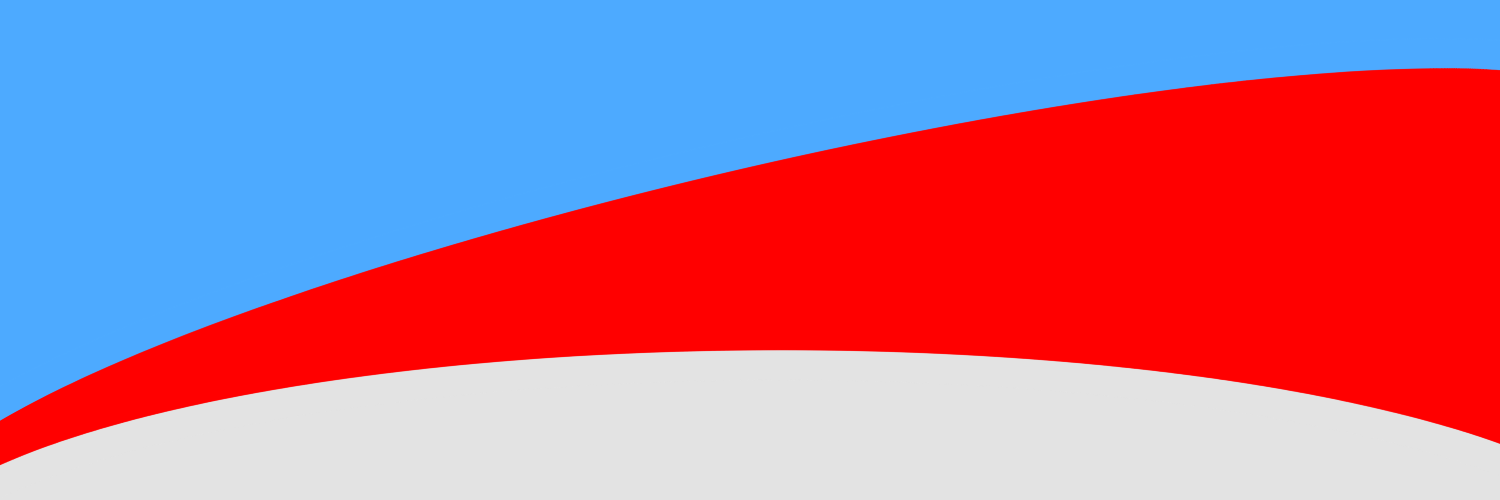
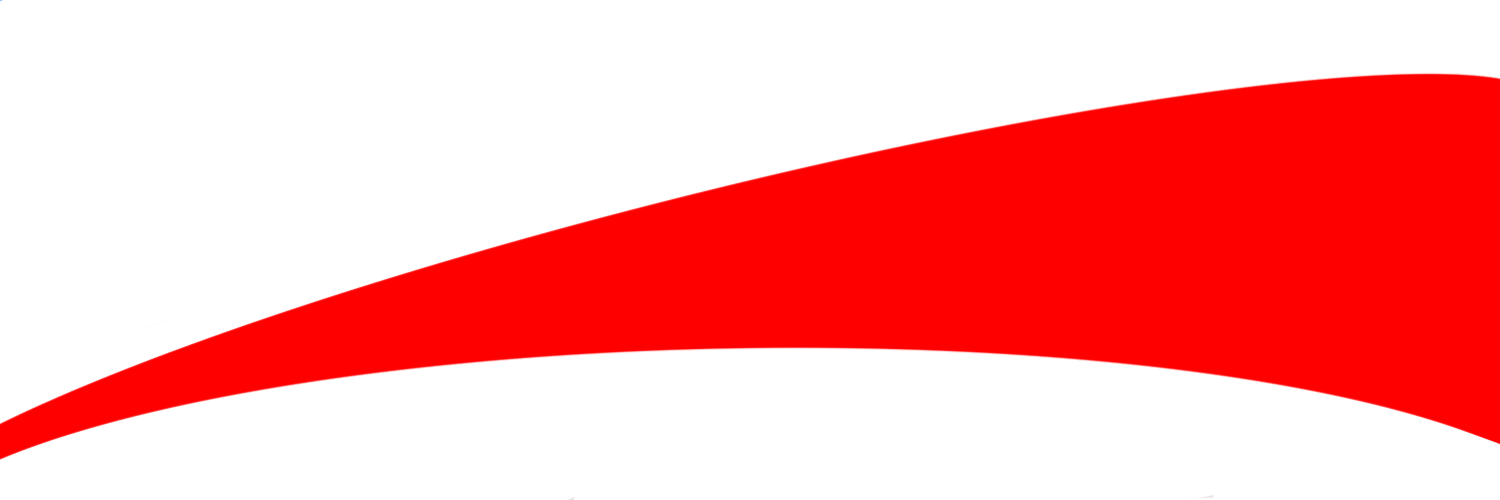
topページの変更

diff --git a/app/homepage.css b/app/homepage.css
@@ -23,7 +23,7 @@
     position: absolute;
     left: -25px;
     top: -20px;
-    height: 28vw;
+    height: clamp(10px, 25vw, 160px);
     min-height: 110px;
     width: auto;
     z-index: 5;
@@ -58,7 +58,7 @@
 
 .newsbox-animation {
     position: absolute;
-    top: 3.75rem;
+    top: 10vw;
     -webkit-transform: rotate(2deg);
     transform: rotate(2deg);
 }
@@ -182,9 +182,9 @@
     position: absolute;
     top: 0;
     z-index: 1;
-    -webkit-transform: rotate(-3deg);
-    transform: rotate(-3deg);
-    margin-top: 1rem;
+    -webkit-transform: rotate(2deg);
+    transform: rotate(2deg);
+    margin-top: clamp(20px, 10vw, 150px);
 }
 
 @media (max-width: 767px) {
@@ -192,12 +192,12 @@
         z-index: 5;
         -webkit-transform: rotate(-2deg);
         transform: rotate(-2deg);
-        margin-top: 0rem;
+        margin-top: 1rem;
     }
 
     .mapbox-up {
-        background: rgb(71, 170, 255);
-        background: linear-gradient(180deg, rgba(77, 170, 255, 1) 43%, rgba(227, 227, 227, 1) 57%);
+        background: rgb(255, 0, 0);
+        background: linear-gradient(180deg, rgba(255, 0, 0, 1) 43%, rgb(255, 255, 255) 57%);
     }
 }
 
@@ -205,7 +205,7 @@
     position: absolute;
     left: -25px;
     top: 0px;
-    height: 28vw;
+    height: clamp(10px, 25vw, 160px);
     min-height: 110px;
     width: auto;
     z-index: 7;
@@ -218,7 +218,7 @@
     flex-direction: column;
     align-items: center;
     height: auto;
-    background-color: #e3e3e3;
+    background-color: #ffffff;
 }
 
 .adbox {
@@ -258,8 +258,8 @@
     top: 0;
     z-index: 1;
     -webkit-transform: rotate(-4deg);
-    transform: rotate(-4rem);
-    margin-top: 10vw;
+    transform: rotate(-4deg);
+    top: clamp(40px, 5vw, 90px);
 }
 
 @media (max-width: 767px) {
@@ -267,20 +267,18 @@
         z-index: 5;
         -webkit-transform: rotate(-2deg);
         transform: rotate(-2deg);
-        margin-top: 0rem;
     }
 
     .footbox-up {
-        background: rgb(227, 227, 227);
-        background: linear-gradient(180deg, rgba(227, 227, 227, 1) 43%, rgba(255, 255, 255, 1) 57%);
+        background: white;
     }
 }
 
 .footbox-foottag {
     position: absolute;
     left: -25px;
-    top: 0px;
-    height: 28vw;
+    top: 3.5vw;
+    height: clamp(10px, 25vw, 160px);
     min-height: 110px;
     width: auto;
     z-index: 7;
@@ -337,7 +335,7 @@
 }
 
 .imageanimation.hgt .imageanimation-png {
-    height: 17.3vw
+    height: 12vw
 }
 
 @-webkit-keyframes loop {
@@ -486,25 +484,27 @@
 
     .charmbox-charmtag {
         left: -40px;
-        top: 0;
+        top: 1vw;
         height: 18vw;
         max-height: 250px;
     }
 
     .newsbox-animation {
         -webkit-transform: rotate(-1deg);
-        transform: rotate(-1deg)
+        transform: rotate(-1deg);
+        top: clamp(65px, 5vw, 90px);
     }
 
     .footbox-foottag {
         left: -40px;
-        top: 10vw;
+        top: 1vw;
         height: 18vw;
         max-height: 250px;
     }
 
     .imageanimation.hgt .imageanimation-png {
-        height: 7.4vw
+        height: 6vw;
+        max-height: 100px;
     }
 
     .headtop:after {

diff --git a/app/page.tsx b/app/page.tsx
@@ -133,11 +133,11 @@ const Home: React.FC = () => {
                 <picture>
                   <source
                     media="(min-width:768px)"
-                    srcSet="/welcome/footer_mask_pc.png"
+                    srcSet="/welcome/newscover.png"
                   />
                   <Image
                     className="newsbox-up-sp img"
-                    src="/welcome/footer_mask_sp.png"
+                    src="/welcome/newscoversp.png"
                     alt=""
                     width={2000}
                     height={500}

diff --git a/components/HamburgerMenu/HamburgerMenu.tsx b/components/HamburgerMenu/HamburgerMenu.tsx
@@ -54,9 +54,6 @@ const HamburgerMenu: React.FC = () => {
                                     <li className="fusion-item">
                                         <a href="/about">ABOUT</a>
                                     </li>
-                                    <li className="fusion-item">
-                                        <a href="/attention">RULE</a>
-                                    </li>
                                 </ul>
                             </div>
                         </div>

diff --git a/app/attention/page.tsx b/app/attention/page.tsx
@@ -2,7 +2,7 @@ const Attention: React.FC = () => {
     return (
         <main className="p-8">
             <header className="mb-6">
-                <h1 className="text-2xl">注意事項</h1>
+                <h1 className="text-2xl">注意事項(現在使用されていません)</h1>
             </header>
 
             <section className="mb-6">
